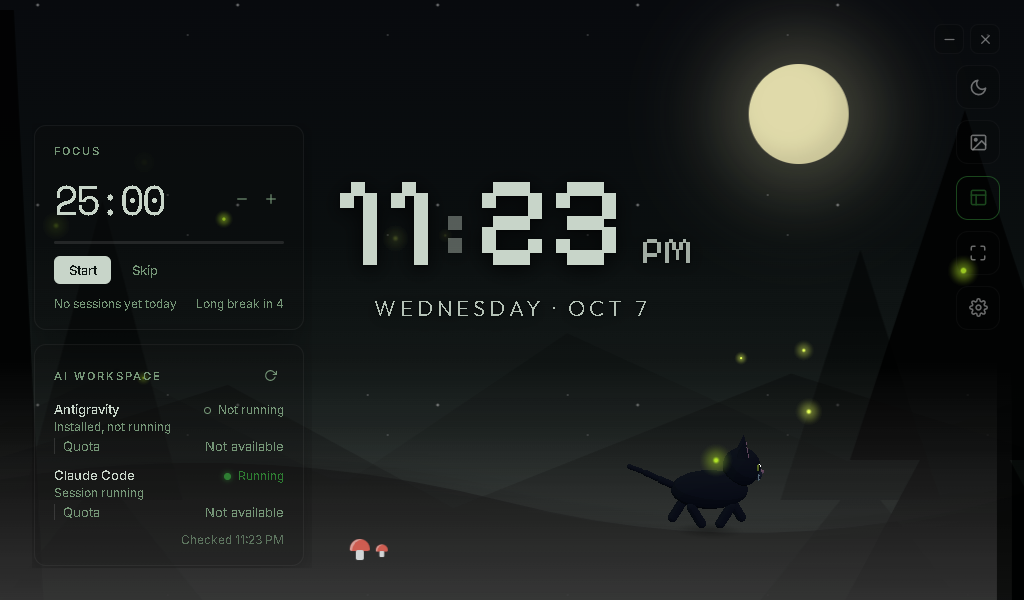
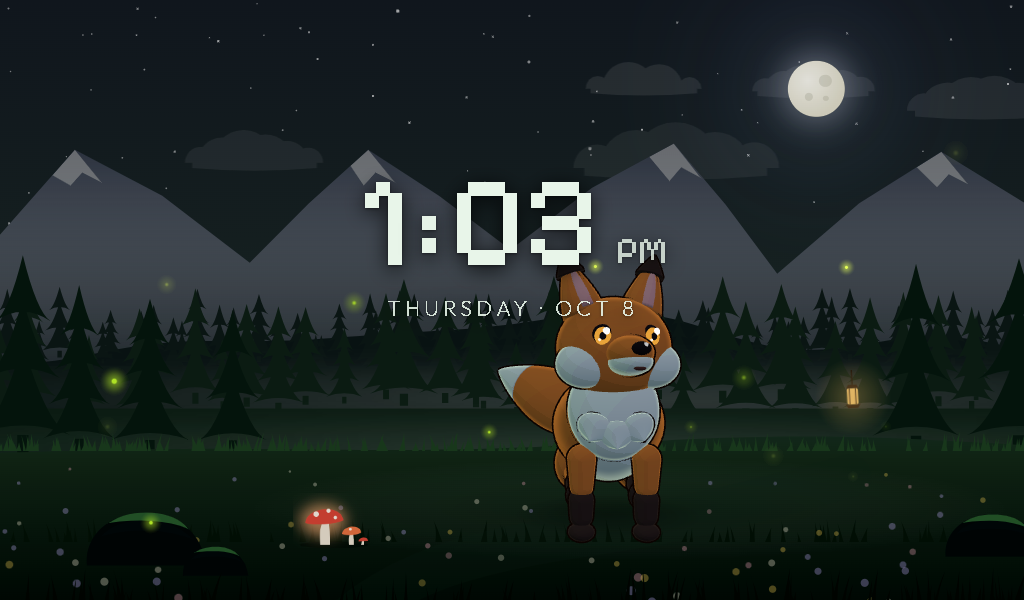
docs: document companion art and scenery, add world screenshots

diff --git a/README.md b/README.md
@@ -22,13 +22,18 @@ It is a clock first — not a dashboard, not a productivity suite.
 
 ![TickPuff in the Cozy Forest world at night](docs/screenshots/forest-night.png)
 
+| | |
+| --- | --- |
+| ![Sakura Dream by day](docs/screenshots/sakura-day.png) | ![Deep Aquarium at night](docs/screenshots/aquarium-night.png) |
+| ![Cyber City at night](docs/screenshots/cyberpunk-night.png) | ![Magic Library at sunset](docs/screenshots/library-sunset.png) |
+
 ## Features
 
 | | |
 | --- | --- |
 | **Clock** | Large customizable clock and date: five bundled fonts (or the world's own), size, weight, spacing, colour, seconds, 12/24-hour. |
 | **Worlds** | Five themed worlds — Cozy Forest, Sakura Dream, Deep Aquarium, Cyber City, Magic Library — whose colours follow the time of day. Each world remembers its own companion and atmosphere. |
-| **3D companion** | A companion that roams the world, visits spots like the pine tree or the candle, sleeps, stretches, plays, looks at your cursor and celebrates finished focus sessions. Eleven companions across the worlds. |
+| **3D companion** | A companion that roams the world, visits spots like the pine tree or the candle, sleeps, stretches, plays, looks at your cursor and celebrates finished focus sessions. Eleven detailed, cel-shaded companions across the worlds, in three sizes. |
 | **Atmosphere** | GPU particle rain, snow, petals, leaves, bubbles, dust, fireflies and sparks, plus soft fog. Optionally follows your real local weather. |
 | **Focus** | Pomodoro timer with short and long breaks, custom durations, auto-start, a chime and a daily streak. Timestamp-based, so it never drifts. |
 | **Tasks, notes, countdown, calendar, daily summary** | Small local tools, each an independent widget. |
@@ -40,9 +45,9 @@ It is a clock first — not a dashboard, not a productivity suite.
 
 ### Honest status notes
 
-- **Companion models are procedural placeholders.** They are built at runtime from simple shapes with
-  toon shading. They are recognizable and fully animated, but they are not final art. The engine already
-  loads GLB/GLTF models — see [docs/companions.md](docs/companions.md).
+- **Companion models are procedural.** They are built at runtime from code (cel shading, ink outlines,
+  detailed faces), not sculpted 3D art. The engine already loads GLB/GLTF models — see
+  [docs/companions.md](docs/companions.md).
 - **Quota is not shown for AI tools.** Neither Antigravity nor Claude Code provides a supported way for
   other apps to read usage or quota, so TickPuff shows "not available" rather than guessing.
 - **Windows is the only tested platform.** See [supported platforms](#supported-platforms).

diff --git a/docs/theming.md b/docs/theming.md
@@ -77,17 +77,33 @@ object** — a "campfire" zone needs a campfire in the scene.
 
 ## Scenery components
 
-A scene receives `time` (the current `TimeOfDay`) and renders three parallax layers:
+A scene receives `time` (the current `TimeOfDay`) and renders a stack of parallax layers, far to near:
 
 ```svelte
-<div class="world-layer" style="--depth: 10"> sky, sun/moon, far hills </div>
+<Sky {time} seed={1} sunX={0.7} />  <!-- shared sky: glow, sun/moon, stars, clouds -->
+<div class="world-layer" style="--depth: 6"> mountains </div>
 <div class="world-layer" style="--depth: 20"> midground </div>
-<div class="world-layer" style="--depth: 40"> foreground and ground </div>
+<div class="world-layer" style="--depth: 40"> ground, props, framing </div>
 ```
 
 `--depth` is the parallax strength in pixels; `World.svelte` drives it from the pointer (disabled in Eco mode).
-Keep scenery as SVG/CSS — it's cheap to render and scales cleanly. Don't put weather in scenes: atmosphere is
-rendered by the effects layer.
+
+Scenery is SVG drawn in a 1600 × 900 space with `preserveAspectRatio="xMidYMax slice"`, so it stays anchored
+to the bottom of the window. `scenes/art.ts` has deterministic generators — `ridge`, `mountains` (with snow
+caps), `pineRow`, `canopy`, `grass`, `specks`, `starField`, `clouds` — and `mix()` for colours derived from the
+theme's CSS variables (`TOP`, `BOTTOM`, `ACCENT`), so a scene follows every time of day without its own palette.
+`GROUND_Y` is where the walkable stage sits.
+
+Rules that keep scenery cheap:
+
+- Generate geometry once (top-level `const` in the component), never per frame.
+- Animate only whole elements (`transform` / `opacity` on an HTML element or a small standalone `<svg>`), never
+  shapes inside a full-screen SVG — that repaints the whole layer every frame.
+- Props that the companion visits (a zone's mushroom, candle, lantern) are absolutely positioned in % of the
+  window so they line up with the stage at any aspect ratio.
+- Don't put weather in scenes: atmosphere is rendered by the effects layer.
+
+In development, preview any time of day with `?time=night` (or `morning`, `day`, `sunset`, `late-night`).
 
 ## Checklist for changes to a world
 

diff --git a/CHANGELOG.md b/CHANGELOG.md
@@ -6,6 +6,34 @@ All notable changes to TickPuff are documented here. The format follows
 
 ## [Unreleased]
 
+## [0.2.0] — detailed companions and redrawn worlds
+
+### Companions
+
+- Every companion rebuilt with far more detail: big glossy eyes with irises and catch-lights, blush, noses,
+  paws with toe beans, cheek and chest fluff, a brush tail for the fox, a collar and bell for the cat, scarves
+  for the bear and penguin, feathered chests and ear tufts for the owl, koi patterns and flowing fins,
+  hexagonal turtle scutes, a screen face for the robot and a camera eye with rotor guards for the drone.
+- New look: four-step cel shading, painted top-to-bottom shading, a rim light that follows the world's sky and
+  accent colour, and ink outlines that stay the same width at any size.
+- Companions are much bigger on screen, with a new **Size** setting (Small / Medium / Large, default Large).
+
+### Worlds
+
+- All five worlds redrawn as layered, parallax illustrations that follow the time of day: a shared sky with a
+  sun or moon on an arc, twinkling stars and drifting clouds.
+  - **Cozy Forest**: snow-capped peaks, three depths of pine forest, drifting fog, a flowery clearing with mossy
+    boulders, a footpath, glowing mushrooms and a lantern at night.
+  - **Sakura Dream**: a snowy volcano, blossom groves, a pagoda with lit windows, a torii gate, stepping stones,
+    a great cherry tree and a stone lantern.
+  - **Deep Aquarium**: shimmering surface and light rays, a rock arch, swaying kelp, branching corals that glow
+    at night, sea grass, rippled sand, a starfish and glowing plankton.
+  - **Cyber City**: two depths of skyline with lit windows, vertical neon signs, a billboard, flying-car light
+    trails, a wet rooftop with neon reflections, a water tank and a flickering ramen sign.
+  - **Magic Library**: an arched window onto the town and sky, curtains, full bookcases, a rug, a plant, a
+    globe, a hanging lamp and a candle.
+- Scenery animations run on the compositor, pause in Eco mode and respect the system's reduced-motion setting.
+
 ## [0.1.0] — first open-source release
 
 The first public version: the prototype restructured into a maintainable, tested codebase.

diff --git a/docs/companions.md b/docs/companions.md
@@ -40,14 +40,30 @@ fox: {
 
 ### Procedural models (current)
 
-All companions currently use procedural models from `companion/models/procedural/`, built at runtime from
-smooth primitives (`models/parts.ts`) with a shared three-step toon ramp. **They are placeholders**: designed to
-be recognizable and expressive, but not final art.
+All companions use procedural models from `companion/models/procedural/`, built at runtime from smooth
+primitives in `models/parts.ts`:
+
+- `ellipsoid`, `sphere`, `limb`, `taperedLimb`, `softCone` (ears, tufts, beaks), `torus`, `cylinder`,
+  `roundedBox` and the shaded `mesh` helper for custom geometry;
+- `eye` (rim, iris, pupil and two catch-lights), `blush`, `paw` (with optional toe beans).
+
+The shared look:
+
+- `toon(color)` — a four-step cel ramp plus a rim light. Toon materials use **vertex colours** for painted
+  top-to-bottom shading, so always build meshes through the helpers (or `mesh()`), never `new THREE.Mesh`
+  with a raw geometry — it would render black.
+- `addOutlines(root, color)` — an inverted-hull ink outline for every opaque mesh. `buildProcedural` applies it
+  with each model's outline colour. Wrap small details (eyes, noses, markings) in `detail()` to skip them.
+- `companionLook` — uniforms shared by every companion (rim colour and strength, outline width). The renderer
+  sets them from the world's colours and the window size.
+
+The models are hand-built from code, not sculpted art; GLB models can replace them (below).
 
 Each builder returns a `CompanionRig` (`models/rig.ts`): `root`, `body`, `head`, and optional `tail`,
 `tailSegments`, `ears`, `legs`, `arms`, `eyes`, `spinners`, `tentacles`, `glows`. Conventions:
 
-- facing +Z, feet at y = 0, about 1.6 units tall;
+- facing +Z, feet at y = 0, about 1.6 units tall (the renderer multiplies this by the definition's `scale` and
+  the user's **Size** setting: 1.3×, 1.75× or 2.2×);
 - each part's pivot is where it rotates (legs hang down from the hip, ears rise from their base);
 - `body.userData.restY` is the body's resting height;
 - `eyes` are scaled on Y to blink; `glows` are dimmed while sleeping.

diff --git a/docs/performance.md b/docs/performance.md
@@ -29,7 +29,10 @@ the same position.
 - **Atmosphere fallback** — fog is always CSS (a gradient); in Eco mode rain, snow and fireflies are a handful of
   CSS layers, never one element per particle.
 - **Parallax** — pointer movement writes two CSS variables at most once per animation frame; no component
-  re-renders.
+  re-renders. In Eco mode the layers drop their GPU surfaces and the scenery's own animations pause.
+- **Scenery** — static SVG generated once per world. Moving parts (clouds, star groups, kelp, fog, lights) are
+  separate elements animated with `transform`/`opacity` on the compositor; all of it pauses under the
+  system's reduced-motion setting.
 - **Polling** — integrations poll only while their widget is mounted and pause while the window is hidden (see
   the table in [architecture.md](architecture.md#recurring-work-and-lifecycles)).
 - **Clock** — one timer aligned to wall-clock seconds.

diff --git a/ROADMAP.md b/ROADMAP.md
@@ -11,8 +11,8 @@ feedback. The guiding rule doesn't change: **a calm clock with a living world fi
 
 ## Next
 
-- **Companion art** — replace procedural placeholders with proper GLB models and animation clips, one companion
-  at a time, under licenses compatible with the project (the loader already supports this).
+- **Sculpted companion art** — optionally swap the procedural models for sculpted GLB models with animation
+  clips, one companion at a time, under licenses compatible with the project (the loader already supports this).
 - **Window options** — always on top, start with Windows, remember window size and position.
 - **Ambient audio** — optional per-world soundscapes (needs openly licensed recordings).
 - **More scene interactions** — new zones only where a world's scenery already has the object.
